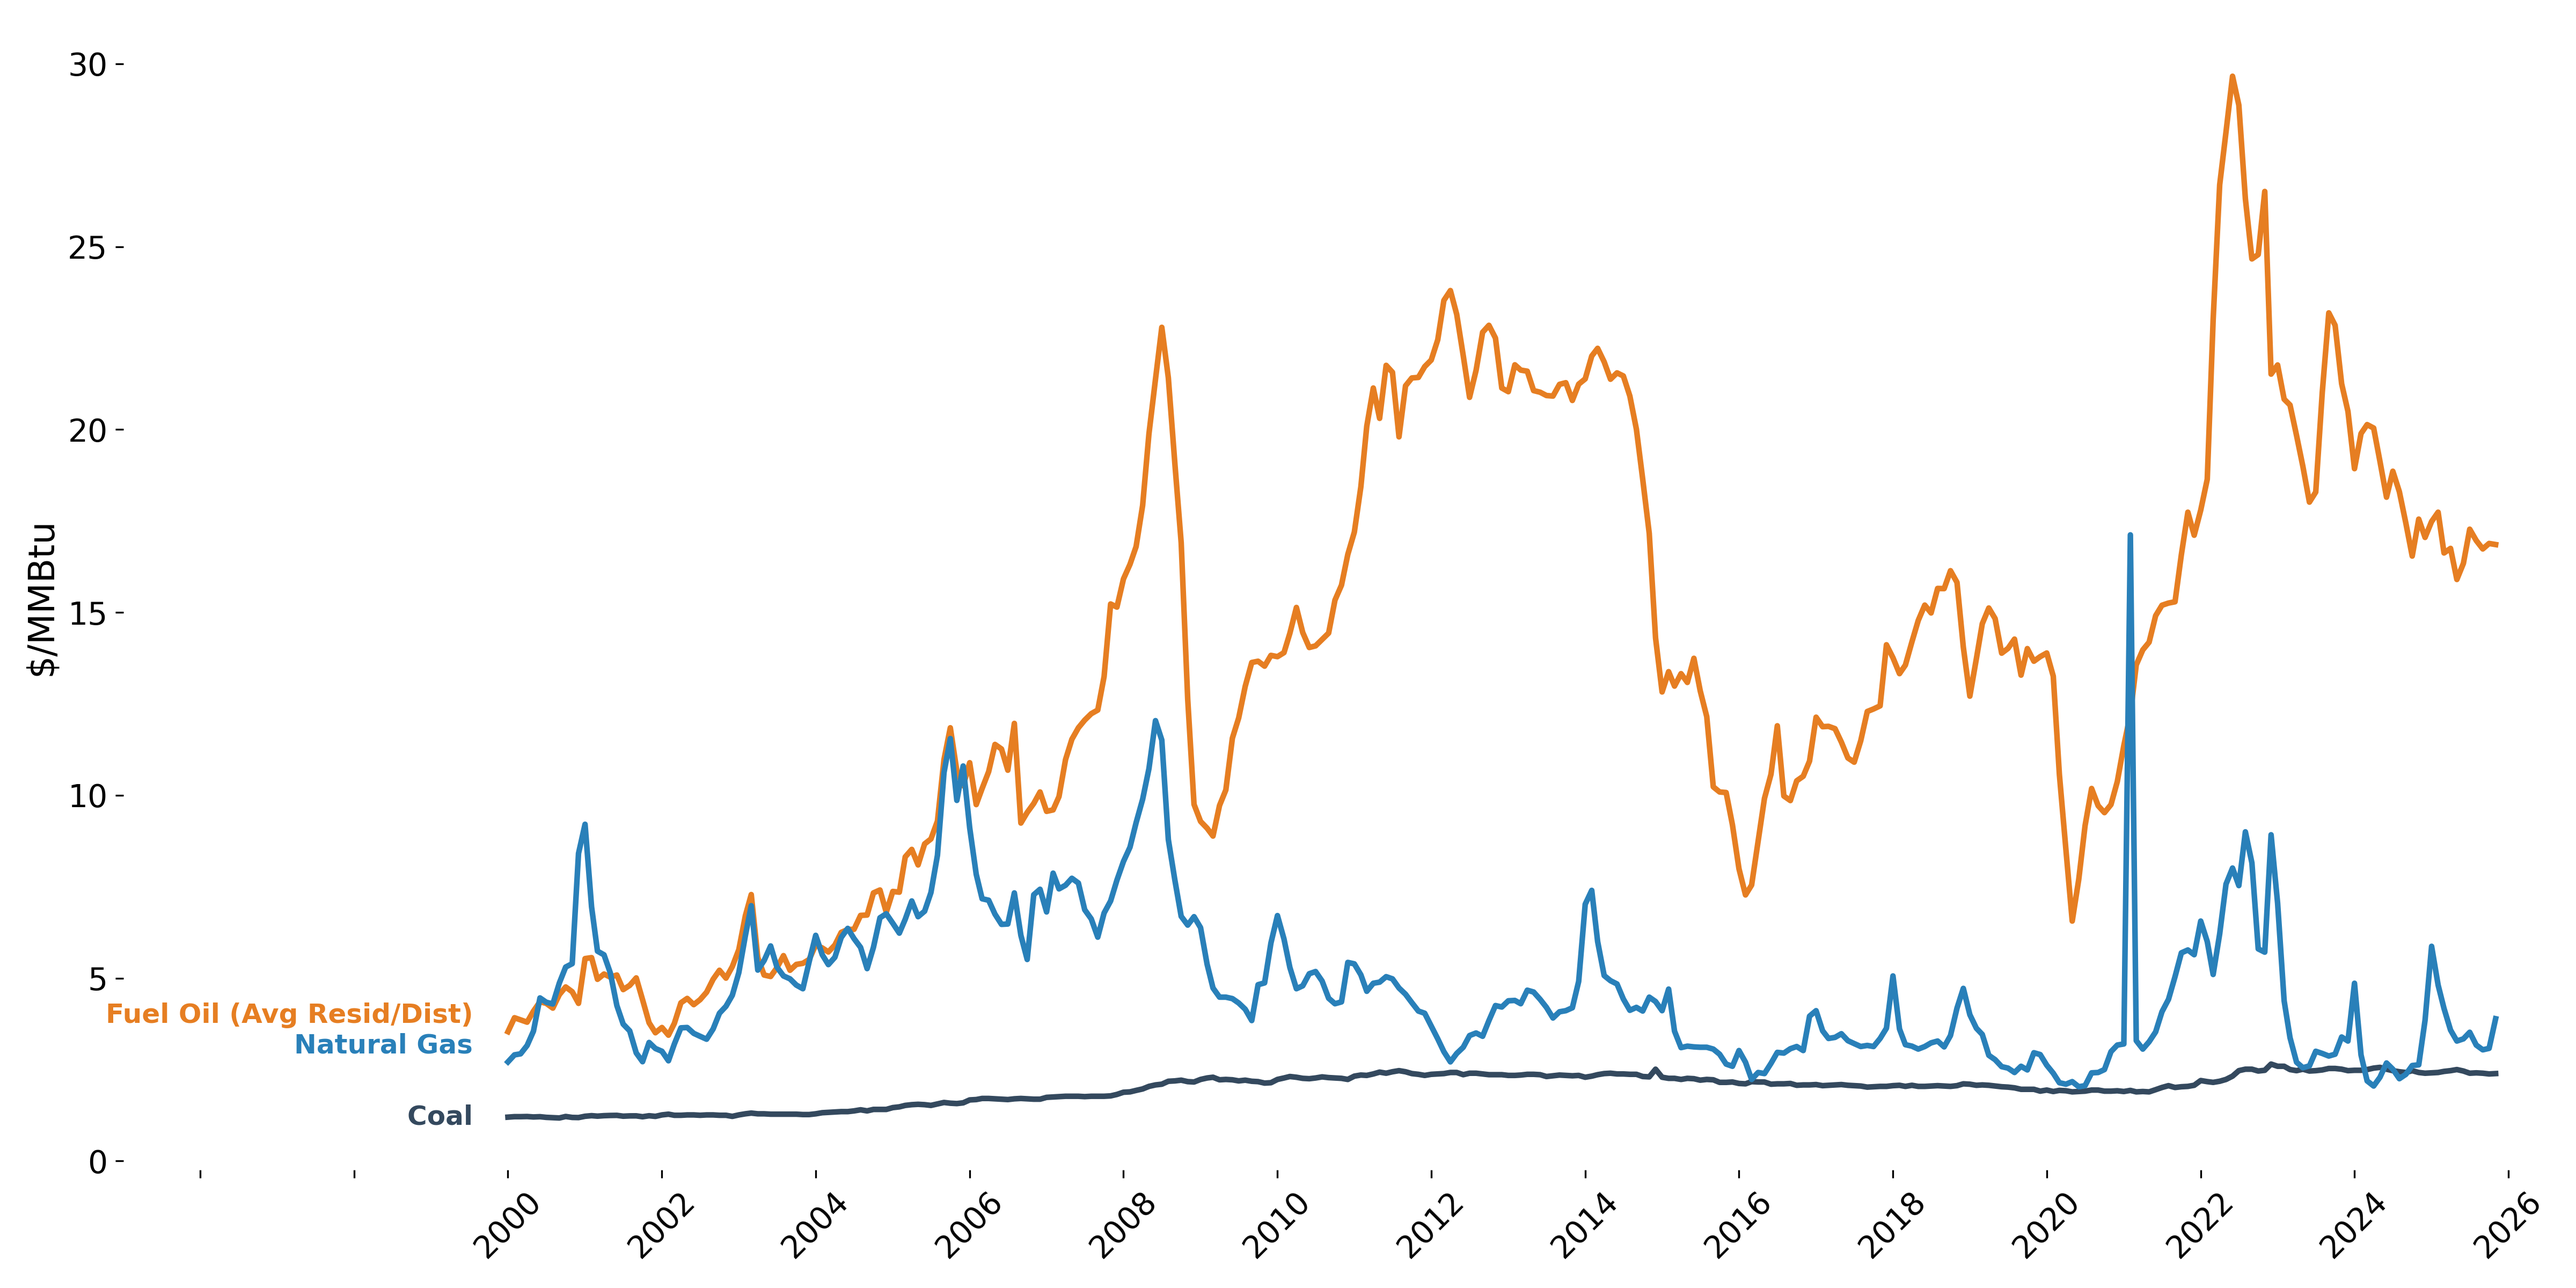
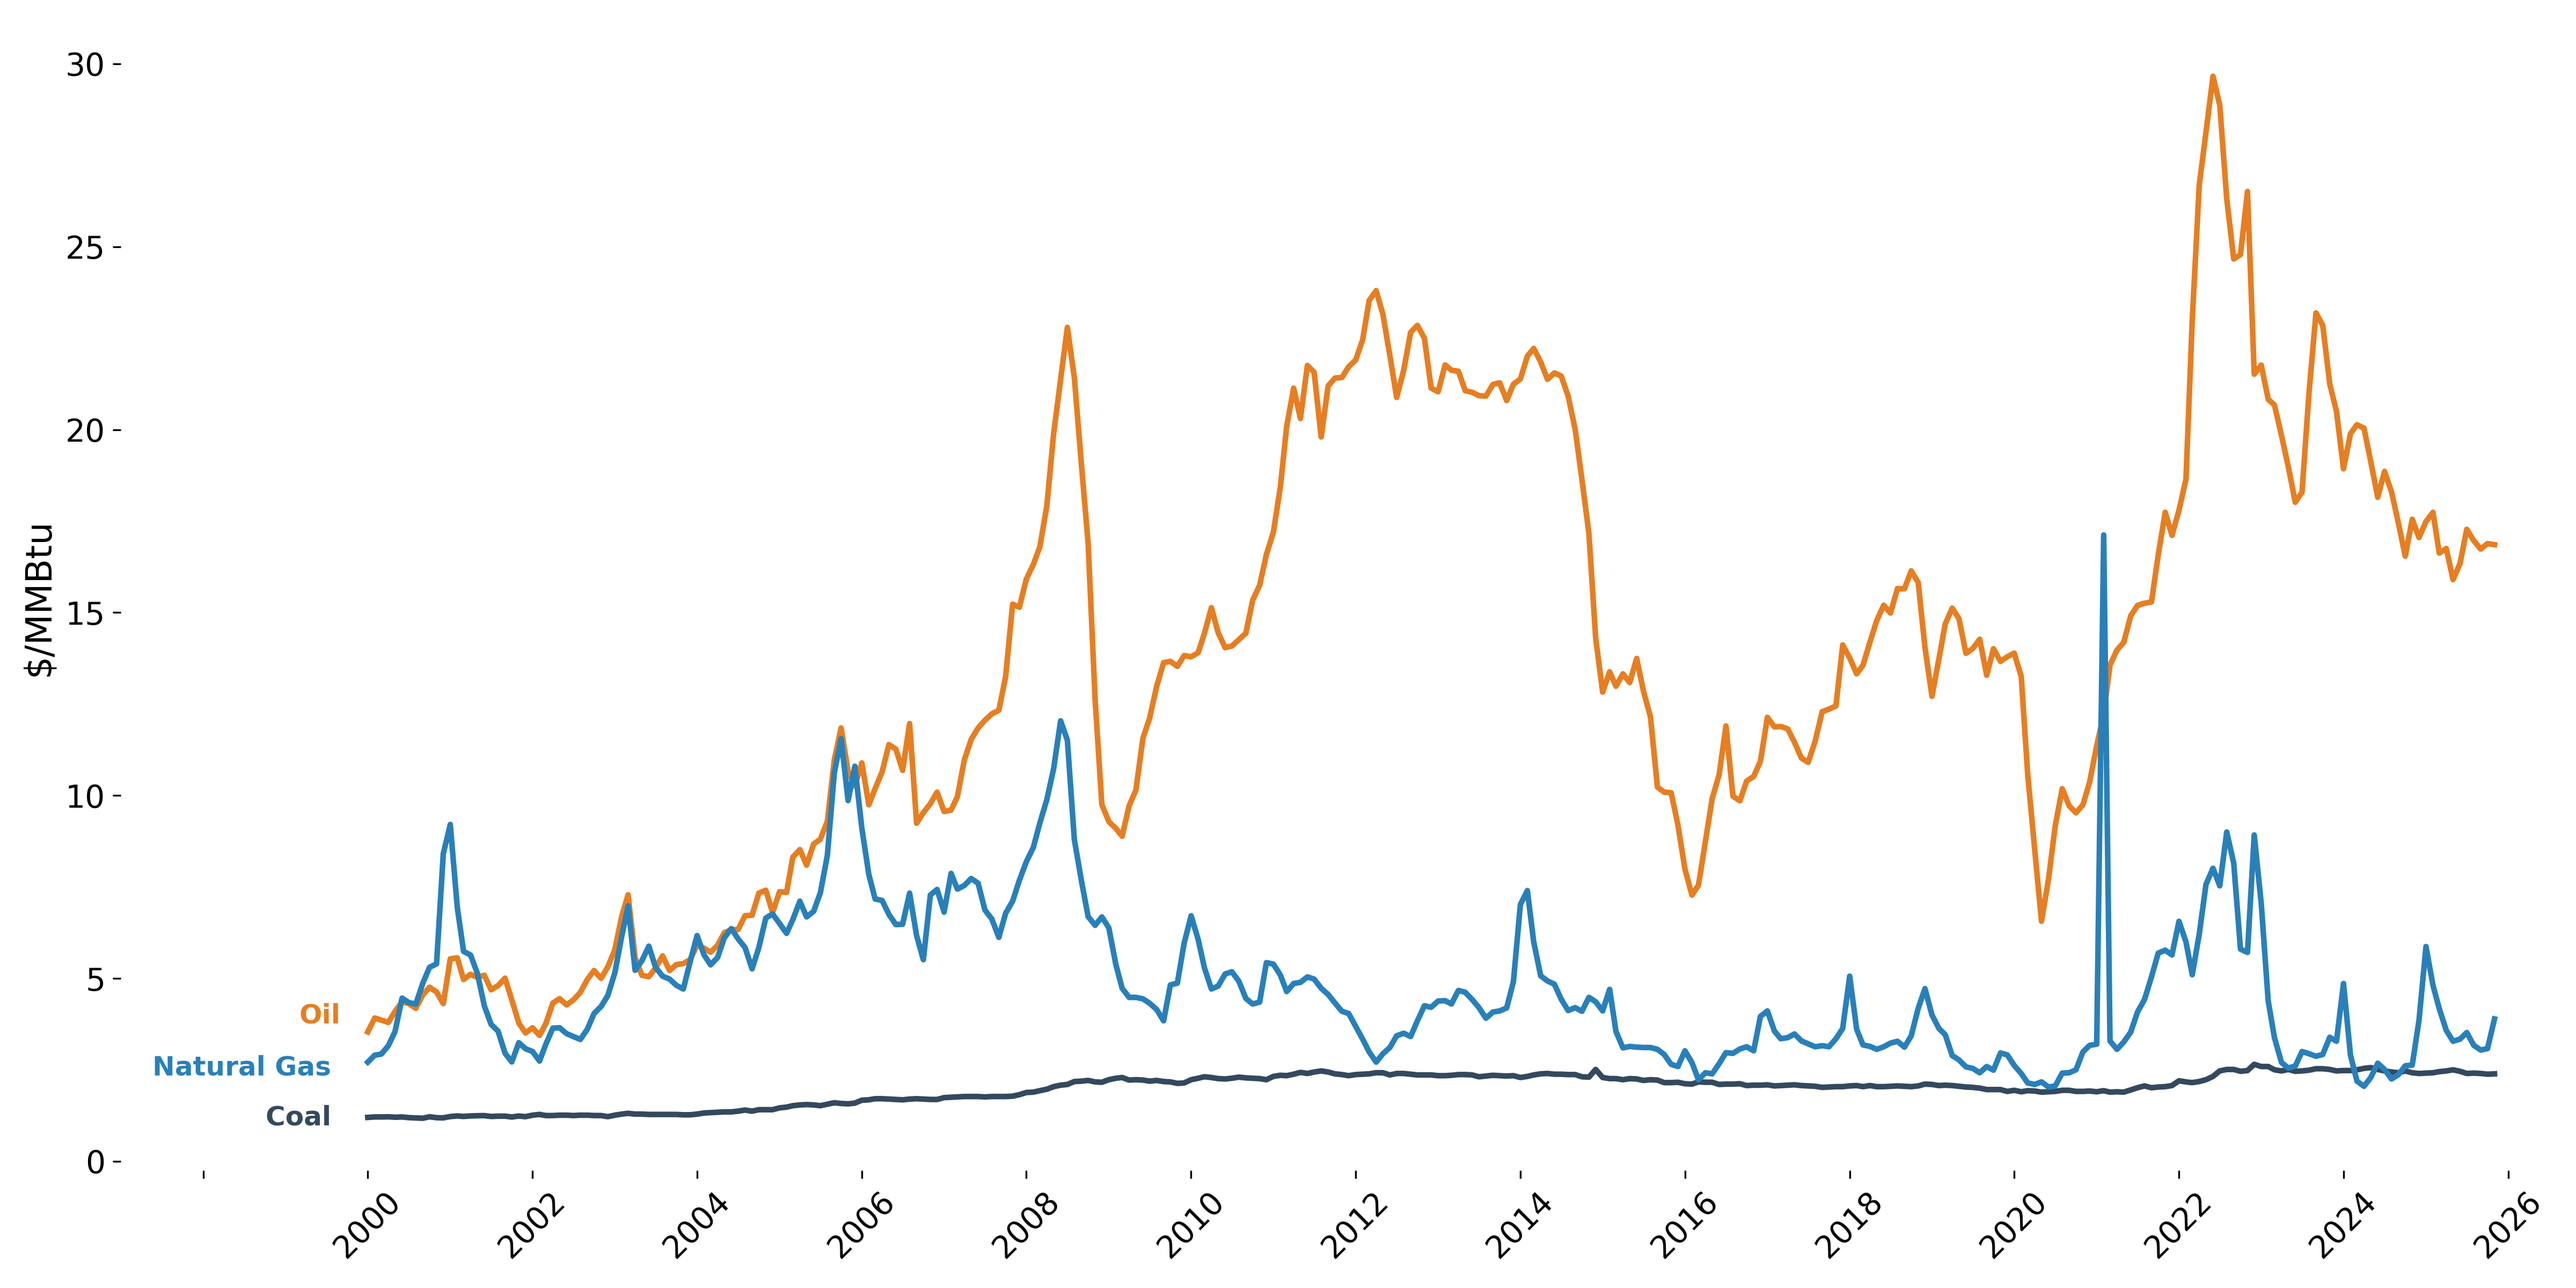
revised eia plots

diff --git a/allfuels_prices_EIA.py b/allfuels_prices_EIA.py
@@ -70,11 +70,11 @@ def plot_fuels(ax):
     label_date = first_date - pd.DateOffset(months=4)
     
     # OIL: Sits slightly above its line
-    ax.text(label_date, df_filtered['Oil_MMBtu'].iloc[0] + 0.1, 'Fuel Oil (Avg Resid/Dist) ', 
+    ax.text(label_date, df_filtered['Oil_MMBtu'].iloc[0] + 0.1, 'Oil', 
             color=color_oil, fontweight='bold', ha='right', va='bottom', fontsize=12)
     
     # GAS: Sits slightly above its line
-    ax.text(label_date, df_filtered['Gas_MMBtu'].iloc[0] + 0.8, 'Natural Gas ', 
+    ax.text(label_date, df_filtered['Gas_MMBtu'].iloc[0] + 0.2, 'Natural Gas ', 
             color=color_gas, fontweight='bold', ha='right', va='top', fontsize=12)
     
     # COAL: Sits centered at its line
@@ -86,7 +86,7 @@ def plot_fuels(ax):
     ax.xaxis.set_major_formatter(mdates.DateFormatter('%Y'))
     
     # Limit to provide a clear margin for the text
-    ax.set_xlim(left=pd.Timestamp('1995-01-01'), right=df_filtered['Date'].max() + pd.DateOffset(months=6))
+    ax.set_xlim(left=pd.Timestamp('1997-01-01'), right=df_filtered['Date'].max() + pd.DateOffset(months=6))
     
     # Hide all year labels before 2000
     plt.draw() 
